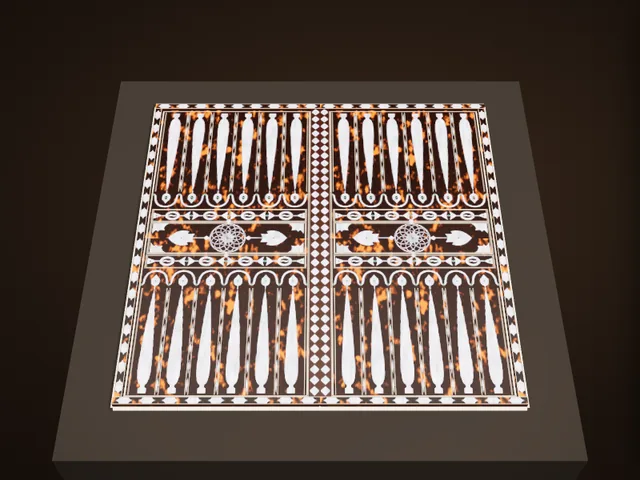
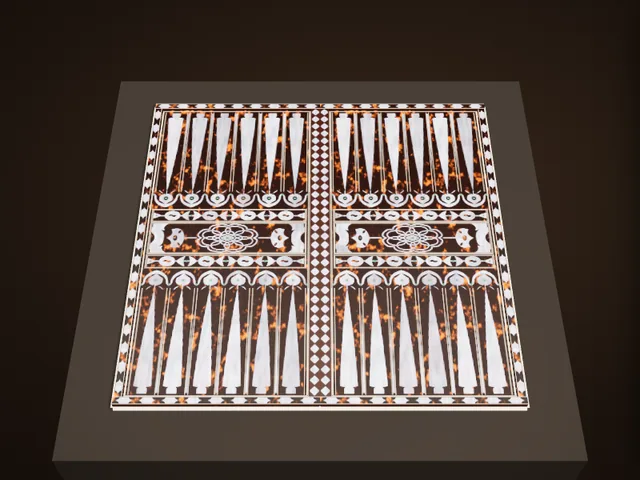
博物館：オスマン帝国の盤のバックギャモン面を V&A の写真に合わせて描き直し（第2弾）
Claude-Session: https://claude.ai/code/session_01EiWRAZTxRF5M5nk5vdR2jJ

Changed region(s): [[0.1562, 0.2188, 0.8438, 0.8438]]

diff --git a/atlas/museum/ex/ottoman.js b/atlas/museum/ex/ottoman.js
@@ -89,11 +89,11 @@
       const PS = 1024, pearlC = document.createElement('canvas'); pearlC.width = pearlC.height = PS;
       { const og = pearlC.getContext('2d'), img = og.createImageData(PS, PS), d = img.data;
         for (let j = 0; j < PS; j++) for (let i = 0; i < PS; i++) { const u = i / PS, v = j / PS, a = N(u * 22, v * 5, 3), b = N(u * 7 + 5, v * 16, 2), sh = N(u * 90, v * 14, 2), band = Math.sin((v * 9 + a * 2) * Math.PI) * .5 + .5;
-          const gr = 150 + sh * 70 + band * 22 + a * 18; const p = (j * PS + i) * 4; d[p] = gr + a * 16 - b * 14; d[p + 1] = gr + b * 12 - a * 6; d[p + 2] = gr + 10 + b * 18 + a * 6; d[p + 3] = 255; }
+          const gr = 132 + sh * 64 + band * 22 + a * 18; const p = (j * PS + i) * 4; d[p] = gr + a * 16 - b * 14; d[p + 1] = gr + b * 12 - a * 6; d[p + 2] = gr + 10 + b * 18 + a * 6; d[p + 3] = 255; }
         og.putImageData(img, 0, 0); }
       const shellC = document.createElement('canvas'); shellC.width = shellC.height = PS;
       { const og = shellC.getContext('2d'), img = og.createImageData(PS, PS), d = img.data;
-        for (let j = 0; j < PS; j++) for (let i = 0; i < PS; i++) { const u = i / PS, v = j / PS, m = N(u * 26 + 3, v * 14, 4) * .7 + N(u * 60, v * 34, 2) * .3, f = N(u * 90 + 7, v * 90, 2), t = Math.max(0, Math.min(1, (.42 - m) * 7));
+        for (let j = 0; j < PS; j++) for (let i = 0; i < PS; i++) { const u = i / PS, v = j / PS, m = N(u * 30 + 3, v * 18, 4) * .7 + N(u * 90, v * 50, 2) * .3, f = N(u * 90 + 7, v * 90, 2), t = Math.max(0, Math.min(1, (.42 - m) * 6));
           // dark, almost black-brown ground with amber-to-orange blotches (gold leaf glowing through the thin parts)
           const p = (j * PS + i) * 4; d[p] = 34 + t * 168 + (f - .5) * 14; d[p + 1] = 14 + t * 84 + (f - .5) * 8; d[p + 2] = 9 + t * 14; d[p + 3] = 255; }
         og.putImageData(img, 0, 0); }
@@ -103,7 +103,8 @@
         g.fillStyle = SP; g.fillRect(0, 0, w, h);
         const cm = v => v * S;
         // draw a path in pearl (and white on the mask), outlined with the fine dark joint of inlay
-        const P = (path, line = .03) => { g.fillStyle = PP; g.fill(path); m.fillStyle = '#fff'; m.fill(path); g.strokeStyle = 'rgba(40,22,14,.55)'; g.lineWidth = cm(line); g.stroke(path); };
+        let pv = 7; const pr = () => ((pv = (pv * 16807) % 2147483647) / 2147483647);
+        const P = (path, line = .03) => { g.fillStyle = PP; g.fill(path); const t = pr(); g.fillStyle = t < .5 ? `rgba(70,64,74,${.08 + t * .5})` : `rgba(235,238,245,${(t - .5) * .25})`; g.fill(path); m.fillStyle = '#fff'; m.fill(path); g.strokeStyle = 'rgba(40,22,14,.55)'; g.lineWidth = cm(line); g.stroke(path); };
         const GR = (x, y, rx, ry, rot = 0) => { g.beginPath(); g.ellipse(x, y, rx, ry, rot, 0, 6.29); g.fillStyle = '#3d7a64'; g.fill(); g.strokeStyle = 'rgba(20,40,30,.6)'; g.lineWidth = 1; g.stroke(); };   // green-stained bone
         const string = (x, y, ww, hh) => { [[.0, '#e6dccb'], [.07, '#2a1208'], [.14, '#e6dccb']].forEach(([o, c]) => { g.strokeStyle = c; g.lineWidth = cm(.05); g.strokeRect(x + cm(o), y + cm(o), ww - cm(2 * o), hh - cm(2 * o)); }); };
         [0, 1].forEach(L => {   // left leaf (hinge on its right) and right leaf (hinge on its left)
@@ -119,38 +120,38 @@
             if (!deep) {
               // a chain: roundels with an S of shell in the middle, between pointed lobed motifs, all on a thin stem
               const n = 4, step = bw / n;
-              const stem = new Path2D(); stem.rect(bx0, bcy - cm(.07), bw, cm(.14)); P(stem, .02);
+              const stem = new Path2D(); stem.rect(bx0, bcy - cm(.1), bw, cm(.2)); P(stem, .02);
               for (let i = 0; i < n; i++) { const rx = bx0 + step * (i + .5);
-                const ro = new Path2D(); ro.ellipse(rx, bcy, cm(1.1), cm(.85), 0, 0, 6.29); ro.ellipse(rx, bcy, cm(.72), cm(.5), 0, 0, 6.29, true); P(ro);
-                const ss = new Path2D(); ss.moveTo(rx - cm(.5), bcy + cm(.1)); ss.bezierCurveTo(rx - cm(.2), bcy - cm(.5), rx + cm(.2), bcy + cm(.5), rx + cm(.5), bcy - cm(.1)); g.strokeStyle = PP; g.lineWidth = cm(.16); g.stroke(ss); m.strokeStyle = '#fff'; m.lineWidth = cm(.16); m.stroke(ss);
+                const ro = new Path2D(); ro.ellipse(rx, bcy, cm(1.2), cm(.92), 0, 0, 6.29); P(ro);
+                const ss = new Path2D(); ss.moveTo(rx - cm(.5), bcy + cm(.1)); ss.bezierCurveTo(rx - cm(.2), bcy - cm(.5), rx + cm(.2), bcy + cm(.5), rx + cm(.5), bcy - cm(.1)); g.strokeStyle = SP; g.lineWidth = cm(.34); g.stroke(ss); m.strokeStyle = '#000'; m.lineWidth = cm(.34); m.stroke(ss);
                 if (i < n) { const lx = bx0 + step * i; [-1, 1].forEach(sd => { if ((i === 0 && sd < 0)) return; const ax = lx + (i === 0 ? 0 : 0), lob = new Path2D();
-                  lob.moveTo(ax + sd * cm(.15), bcy - cm(.85)); lob.quadraticCurveTo(ax + sd * cm(.75), bcy - cm(.45), ax + sd * cm(1.25), bcy); lob.quadraticCurveTo(ax + sd * cm(.75), bcy + cm(.45), ax + sd * cm(.15), bcy + cm(.85)); lob.quadraticCurveTo(ax + sd * cm(.5), bcy, ax + sd * cm(.15), bcy - cm(.85)); if (i) P(lob); }); if (i) GR(lx, bcy, cm(.14), cm(.2)); }
+                  lob.moveTo(ax + sd * cm(.25), bcy - cm(.95)); lob.quadraticCurveTo(ax + sd * cm(1.0), bcy - cm(.7), ax + sd * cm(1.55), bcy); lob.quadraticCurveTo(ax + sd * cm(1.0), bcy + cm(.7), ax + sd * cm(.25), bcy + cm(.95)); lob.quadraticCurveTo(ax + sd * cm(.75), bcy, ax + sd * cm(.25), bcy - cm(.95)); if (i) P(lob); }); if (i) GR(lx, bcy, cm(.14), cm(.2)); }
               }
               // the pointed finials at each end
               [bx0, bx1].forEach((ex, k) => { const sd = k ? -1 : 1, f = new Path2D(); f.moveTo(ex, bcy - cm(.55)); f.quadraticCurveTo(ex + sd * cm(.9), bcy - cm(.25), ex + sd * cm(1.25), bcy); f.quadraticCurveTo(ex + sd * cm(.9), bcy + cm(.25), ex, bcy + cm(.55)); f.closePath(); P(f); GR(ex + sd * cm(.45), bcy, cm(.13), cm(.2)); });
             } else {
               // the deep band: a round fretted medallion of interlace (four joined quarters), smaller lobed cartouches either side,
               // fretted hooks (spandrels) in the corners
-              const mx = bx0 + bw / 2, R = Math.min(bh * .48, bw * .2);
-              const med = new Path2D(); for (let q = 0; q < 8; q++) { const a = q / 8 * Math.PI * 2; med.moveTo(mx + Math.cos(a) * R * .02, bcy + Math.sin(a) * R * .02); }
-              g.save(); g.translate(mx, bcy);
-              const lw = cm(.085);
-              const knot = new Path2D();
-              for (let q = 0; q < 12; q++) { const a = q * Math.PI / 6; const cx2 = Math.cos(a) * R * .55, cy2 = Math.sin(a) * R * .55; knot.moveTo(cx2 + R * .4, cy2); knot.arc(cx2, cy2, R * .4, 0, Math.PI * 2); }
-              for (let q = 0; q < 6; q++) { const a = q * Math.PI / 3 + .26; const cx2 = Math.cos(a) * R * .3, cy2 = Math.sin(a) * R * .3; knot.moveTo(cx2 + R * .22, cy2); knot.arc(cx2, cy2, R * .22, 0, Math.PI * 2); }
-              knot.moveTo(R * .98, 0); knot.arc(0, 0, R * .98, 0, Math.PI * 2); knot.moveTo(R * .3, 0); knot.arc(0, 0, R * .3, 0, Math.PI * 2);
-              g.strokeStyle = PP; g.lineWidth = lw; g.stroke(knot); m.save(); m.translate(mx, bcy); m.strokeStyle = '#fff'; m.lineWidth = lw; m.stroke(knot); m.restore();
-              g.strokeStyle = 'rgba(40,22,14,.5)'; g.lineWidth = 1; g.stroke(knot);
-              // the vertical axis and four points of the medallion (the joins of its quarters)
-              [0, 1, 2, 3].forEach(q => { const a = q * Math.PI / 2, tip = new Path2D(); tip.moveTo(Math.cos(a) * R * .98, Math.sin(a) * R * .98); tip.lineTo(Math.cos(a + .12) * R * 1.18, Math.sin(a + .12) * R * 1.18); tip.lineTo(Math.cos(a) * R * 1.32, Math.sin(a) * R * 1.32); tip.lineTo(Math.cos(a - .12) * R * 1.18, Math.sin(a - .12) * R * 1.18); tip.closePath(); g.fillStyle = PP; g.fill(tip); m.save(); m.translate(mx, bcy); m.fillStyle = '#fff'; m.fill(tip); m.restore(); });
-              g.restore(); GR(mx, bcy, cm(.12), cm(.18));
-              // either side: a split palmette in fretted pearl, pointing at the medallion, on a short stem
-              [-1, 1].forEach(sd => { const px = mx + sd * bw * .3, pl = new Path2D(), PL = bw * .085, PHh = bh * .3;
-                pl.moveTo(px + sd * PL, bcy); pl.quadraticCurveTo(px + sd * PL * .3, bcy - PHh * 1.1, px - sd * PL * .55, bcy - PHh * .7); pl.quadraticCurveTo(px - sd * PL * .2, bcy - PHh * .3, px - sd * PL, bcy - PHh * .45);
-                pl.quadraticCurveTo(px - sd * PL * .7, bcy, px - sd * PL, bcy + PHh * .45); pl.quadraticCurveTo(px - sd * PL * .2, bcy + PHh * .3, px - sd * PL * .55, bcy + PHh * .7); pl.quadraticCurveTo(px + sd * PL * .3, bcy + PHh * 1.1, px + sd * PL, bcy); pl.closePath();
-                pl.moveTo(px + sd * PL * .5, bcy); pl.quadraticCurveTo(px, bcy - PHh * .45, px - sd * PL * .45, bcy - PHh * .1); pl.lineTo(px - sd * PL * .45, bcy + PHh * .1); pl.quadraticCurveTo(px, bcy + PHh * .45, px + sd * PL * .5, bcy); P(pl);
-                const stm = new Path2D(); stm.rect(Math.min(px + sd * PL, mx + sd * R * 1.3), bcy - cm(.06), Math.abs(mx + sd * R * 1.3 - (px + sd * PL)), cm(.12)); P(stm, .01);
-                GR(px, bcy, cm(.11), cm(.17)); });
+              const mx = bx0 + bw / 2, MW = bw * .2, MH = bh * .47, lw = cm(.15);
+              const strokeP = (p, wdt) => { g.strokeStyle = PP; g.lineWidth = wdt; g.stroke(p); m.strokeStyle = '#fff'; m.lineWidth = wdt; m.stroke(p); g.strokeStyle = 'rgba(40,22,14,.45)'; g.lineWidth = 1; g.stroke(p); };
+              // a lobed round medallion (eight ogee lobes) filled with a dense interlace of rings, a quatrefoil at the heart
+              const lob = new Path2D(), LB = 8;
+              for (let q = 0; q <= LB * 8; q++) { const a = q / (LB * 8) * Math.PI * 2, f = Math.abs(Math.sin(a * LB / 2)), rr = 1 - .14 * Math.pow(1 - f, 2); const x = mx + Math.cos(a) * MW * rr, y = bcy + Math.sin(a) * MH * rr; q ? lob.lineTo(x, y) : lob.moveTo(x, y); } lob.closePath();
+              strokeP(lob, lw * 1.2);
+              const ring = new Path2D();
+              for (let q = 0; q < 8; q++) { const a = q / 8 * Math.PI * 2 + Math.PI / 8, x = mx + Math.cos(a) * MW * .56, y = bcy + Math.sin(a) * MH * .56; ring.moveTo(x + MW * .3, y); ring.ellipse(x, y, MW * .3, MH * .3, 0, 0, Math.PI * 2); }
+              for (let q = 0; q < 4; q++) { const a = q / 4 * Math.PI * 2, x = mx + Math.cos(a) * MW * .28, y = bcy + Math.sin(a) * MH * .28; ring.moveTo(x + MW * .2, y); ring.ellipse(x, y, MW * .2, MH * .2, 0, 0, Math.PI * 2); }
+              strokeP(ring, lw);
+              const qf = new Path2D(); for (let q = 0; q < 4; q++) { const a = q * Math.PI / 2; qf.moveTo(mx, bcy); qf.quadraticCurveTo(mx + Math.cos(a - .5) * MW * .3, bcy + Math.sin(a - .5) * MH * .3, mx + Math.cos(a) * MW * .2, bcy + Math.sin(a) * MH * .2); qf.quadraticCurveTo(mx + Math.cos(a + .5) * MW * .3, bcy + Math.sin(a + .5) * MH * .3, mx, bcy); } P(qf);
+              GR(mx, bcy, cm(.13), cm(.19));
+              const MWt = MW;
+              // long finials from the points of the mandorla, ending in a lobed palmette; quarter medallions at the band's ends
+              [-1, 1].forEach(sd => { const tx = mx + sd * MWt, fx = mx + sd * bw * .34, fin = new Path2D();
+                fin.moveTo(tx, bcy - cm(.12)); fin.lineTo(fx - sd * cm(1.4), bcy - cm(.12)); fin.quadraticCurveTo(fx - sd * cm(1.0), bcy - bh * .42, fx + sd * cm(.7), bcy - bh * .28); fin.quadraticCurveTo(fx + sd * cm(.1), bcy - bh * .1, fx + sd * cm(1.4), bcy);
+                fin.quadraticCurveTo(fx + sd * cm(.1), bcy + bh * .1, fx + sd * cm(.7), bcy + bh * .28); fin.quadraticCurveTo(fx - sd * cm(1.0), bcy + bh * .42, fx - sd * cm(1.4), bcy + cm(.12)); fin.lineTo(tx, bcy + cm(.12)); fin.closePath();
+                fin.moveTo(fx + sd * cm(.35), bcy); fin.ellipse(fx, bcy, cm(.35), bh * .09, 0, 0, 6.29, sd > 0);
+                [-1, 1].forEach(vs => { const ex2 = fx - sd * cm(.6), ey = bcy + vs * bh * .2; fin.moveTo(ex2 + cm(.2), ey); fin.ellipse(ex2, ey, cm(.2), bh * .06, vs * sd * .6, 0, 6.29, sd > 0); }); P(fin); GR(fx, bcy, cm(.1), cm(.15));
+                const ex = sd < 0 ? bx0 : bx1, q = new Path2D(); q.moveTo(ex, bcy - bh * .36); q.quadraticCurveTo(ex - sd * cm(2.2), bcy - bh * .3, ex - sd * cm(2.0), bcy); q.quadraticCurveTo(ex - sd * cm(2.2), bcy + bh * .3, ex, bcy + bh * .36); q.lineTo(ex, bcy + bh * .2); q.quadraticCurveTo(ex - sd * cm(1.3), bcy, ex, bcy - bh * .2); q.closePath(); P(q); });
               // spandrels: a hooked cloud band in each corner
               [[bx0, by, 1, 1], [bx1, by, -1, 1], [bx0, by + bh, 1, -1], [bx1, by + bh, -1, -1]].forEach(([sx, sy, dx, dy]) => { const sp = new Path2D();
                 sp.moveTo(sx, sy + dy * cm(.15)); sp.lineTo(sx + dx * cm(2.6), sy + dy * cm(.15)); sp.quadraticCurveTo(sx + dx * cm(1.6), sy + dy * cm(.6), sx + dx * cm(2.0), sy + dy * cm(1.5)); sp.quadraticCurveTo(sx + dx * cm(1.2), sy + dy * cm(1.1), sx + dx * cm(1.0), sy + dy * cm(1.7)); sp.quadraticCurveTo(sx + dx * cm(.6), sy + dy * cm(1.0), sx + dx * cm(.15), sy + dy * cm(2.1)); sp.lineTo(sx + dx * cm(.15), sy + dy * cm(.15)); sp.closePath();
@@ -164,30 +165,31 @@
             // separators: narrow bands of the frame's marquetry between the columns (stringing and slivers of pearl)
             for (let k = 0; k <= nP; k++) { const sx = ix0 + k * colW, sx0 = sx - sep / 2;
               g.fillStyle = '#e6dccb'; g.fillRect(sx0, Math.min(edge, tipEnd), cm(.05), Math.abs(tipEnd - edge)); g.fillRect(sx0 + sep - cm(.05), Math.min(edge, tipEnd), cm(.05), Math.abs(tipEnd - edge));
-              if (k > 0 && k < nP) for (let q = 0; q < 6; q++) { const ya = edge + dir * (q * Math.abs(tipEnd - edge) / 6 + cm(.25)), yb = edge + dir * ((q + 1) * Math.abs(tipEnd - edge) / 6 - cm(.25)); const sl = new Path2D(); sl.moveTo(sx, ya); sl.lineTo(sx + cm(.12), (ya + yb) / 2); sl.lineTo(sx, yb); sl.lineTo(sx - cm(.12), (ya + yb) / 2); sl.closePath(); P(sl, .01); } }
+              if (k > 0 && k < nP) { const nd = new Path2D(), nl = Math.abs(tipEnd - edge) * .78, e1 = edge + dir * cm(.3); nd.moveTo(sx - cm(.16), e1); nd.lineTo(sx + cm(.16), e1); nd.lineTo(sx, e1 + dir * nl); nd.closePath(); P(nd, .015); }
+            }
             for (let k = 0; k < nP; k++) {
               const cx = ix0 + (k + .5) * colW, half = colW * .24;
-              // the cypress: a short stepped trunk at the edge, the crown widest near it and tapering to a point at the niche
-              const tr = new Path2D(), Lp = Math.abs(tipEnd - edge) - cm(.4), e0 = edge + dir * cm(.25);
-              tr.moveTo(cx - half * .55, e0); tr.lineTo(cx + half * .55, e0); tr.lineTo(cx + half * .55, e0 + dir * cm(.7)); tr.lineTo(cx + half * .3, e0 + dir * cm(.9));
-              tr.lineTo(cx + half * .3, e0 + dir * cm(1.3)); tr.quadraticCurveTo(cx + half * 1.05, e0 + dir * cm(1.6), cx + half * .9, e0 + dir * Lp * .3);
-              tr.quadraticCurveTo(cx + half * .55, e0 + dir * Lp * .75, cx, e0 + dir * Lp); tr.quadraticCurveTo(cx - half * .55, e0 + dir * Lp * .75, cx - half * .9, e0 + dir * Lp * .3);
-              tr.quadraticCurveTo(cx - half * 1.05, e0 + dir * cm(1.6), cx - half * .3, e0 + dir * cm(1.3)); tr.lineTo(cx - half * .3, e0 + dir * cm(.9)); tr.lineTo(cx - half * .55, e0 + dir * cm(.7)); tr.closePath();
+              // the point: a short cap at the edge, then a long tapering triangle (widest at the edge) running to the niche
+              const tr = new Path2D(), Lp = Math.abs(tipEnd - edge) - cm(.3), e0 = edge + dir * cm(.2), bw2 = colW * .3;
+              tr.moveTo(cx - bw2 * .55, e0); tr.lineTo(cx + bw2 * .55, e0); tr.lineTo(cx + bw2 * .55, e0 + dir * cm(.75)); tr.lineTo(cx + bw2 * .35, e0 + dir * cm(.95));
+              tr.lineTo(cx + bw2, e0 + dir * cm(1.15)); tr.quadraticCurveTo(cx + bw2 * .7, e0 + dir * Lp * .55, cx, e0 + dir * Lp); tr.quadraticCurveTo(cx - bw2 * .7, e0 + dir * Lp * .55, cx - bw2, e0 + dir * cm(1.15));
+              tr.lineTo(cx - bw2 * .35, e0 + dir * cm(.95)); tr.lineTo(cx - bw2 * .55, e0 + dir * cm(.75)); tr.closePath();
               P(tr);
               // the joins of the pieces the cypress is made of
               g.strokeStyle = 'rgba(60,40,30,.45)'; g.lineWidth = 1; [.18, .42, .66].forEach(f => { const yy = e0 + dir * Lp * f; g.beginPath(); g.moveTo(cx - half, yy + dir * cm(.2)); g.lineTo(cx + half, yy - dir * cm(.1)); g.stroke(); });
               // the niche over the tip: a U of two bands with outward hooks, its lowest point near the bands; the pendant inside it
               const a0 = ix0 + k * colW, a1 = a0 + colW, top0 = tipEnd + dir * cm(.1), bot0 = inner - dir * cm(.25);
-              const ni = new Path2D(), tw = cm(.26);
+              const ni = new Path2D(), tw = cm(.42);
               ni.moveTo(a0 - cm(.25), top0); ni.quadraticCurveTo(a0 + cm(.15), top0 + dir * cm(.35), a0 + cm(.2), top0 + dir * cm(.9));
-              ni.quadraticCurveTo(a0 + cm(.3), bot0, cx, bot0); ni.quadraticCurveTo(a1 - cm(.3), bot0, a1 - cm(.2), top0 + dir * cm(.9)); ni.quadraticCurveTo(a1 - cm(.15), top0 + dir * cm(.35), a1 + cm(.25), top0);
+              ni.quadraticCurveTo(a0 + cm(.25), bot0 - dir * cm(.5), cx, bot0); ni.quadraticCurveTo(a1 - cm(.25), bot0 - dir * cm(.5), a1 - cm(.2), top0 + dir * cm(.9)); ni.quadraticCurveTo(a1 - cm(.15), top0 + dir * cm(.35), a1 + cm(.25), top0);
               ni.lineTo(a1 + cm(.05), top0 + dir * cm(.25)); ni.quadraticCurveTo(a1 - cm(.45), top0 + dir * cm(.55), a1 - cm(.48), top0 + dir * cm(1.0));
-              ni.quadraticCurveTo(a1 - cm(.6), bot0 - dir * tw, cx, bot0 - dir * tw); ni.quadraticCurveTo(a0 + cm(.6), bot0 - dir * tw, a0 + cm(.48), top0 + dir * cm(1.0)); ni.quadraticCurveTo(a0 + cm(.45), top0 + dir * cm(.55), a0 - cm(.05), top0 + dir * cm(.25)); ni.closePath(); P(ni);
+              ni.quadraticCurveTo(a1 - cm(.55), bot0 - dir * (tw + cm(.5)), cx, bot0 - dir * tw * 1.3); ni.quadraticCurveTo(a0 + cm(.55), bot0 - dir * (tw + cm(.5)), a0 + cm(.48), top0 + dir * cm(1.0)); ni.quadraticCurveTo(a0 + cm(.45), top0 + dir * cm(.55), a0 - cm(.05), top0 + dir * cm(.25)); ni.closePath(); P(ni);
               // the pendant: a cusped drop on a stem from the cypress tip, pierced in the middle
-              const st0 = tipEnd - dir * cm(.2), pH = Math.abs(bot0 - st0) * .78, pd = new Path2D(), pw2 = half * .75;
+              const st0 = tipEnd - dir * cm(.2), pH = Math.abs(bot0 - st0) * .85, pd = new Path2D(), pw2 = half * 1.25;
               pd.moveTo(cx - cm(.06), st0); pd.lineTo(cx + cm(.06), st0); pd.lineTo(cx + cm(.06), st0 + dir * pH * .22);
               pd.quadraticCurveTo(cx + pw2 * 1.1, st0 + dir * pH * .3, cx + pw2 * .8, st0 + dir * pH * .7); pd.quadraticCurveTo(cx + pw2 * .35, st0 + dir * pH * .82, cx, st0 + dir * pH);
               pd.quadraticCurveTo(cx - pw2 * .35, st0 + dir * pH * .82, cx - pw2 * .8, st0 + dir * pH * .7); pd.quadraticCurveTo(cx - pw2 * 1.1, st0 + dir * pH * .3, cx - cm(.06), st0 + dir * pH * .22); pd.closePath();
+              [-1, 1].forEach(hs => { pd.moveTo(cx + hs * cm(.06), st0 + dir * pH * .24); pd.quadraticCurveTo(cx + hs * pw2 * .9, st0 + dir * pH * .18, cx + hs * pw2 * 1.05, st0 - dir * pH * .05); pd.quadraticCurveTo(cx + hs * pw2 * .7, st0 + dir * pH * .1, cx + hs * cm(.06), st0 + dir * pH * .32); });
               pd.moveTo(cx + pw2 * .3, st0 + dir * pH * .55); pd.ellipse(cx, st0 + dir * pH * .55, pw2 * .3, pH * .14, 0, 0, 6.29, true); P(pd);
               GR(cx, st0 + dir * pH * .55, pw2 * .16, pH * .07); [a0, a1].forEach(ax => GR(ax, top0 + dir * cm(.55), cm(.12), cm(.2)));
             }

diff --git a/atlas/museum.js b/atlas/museum.js
@@ -32,7 +32,7 @@
   const ROOMS = [
     { id: 'map', ready: () => !!window.AtlasMap, render: (el, c) => AtlasMap.render(el, c) },
     { id: 'tree', src: ['museum/tree.js?v=2'], ready: () => !!window.AtlasTree, render: (el, c) => AtlasTree.render(el, c) },
-    { id: 'gallery', src: ['museum/gallery.js?v=10'], ready: () => !!window.AtlasGallery, render: (el, c) => AtlasGallery.render(el, c) },
+    { id: 'gallery', src: ['museum/gallery.js?v=11'], ready: () => !!window.AtlasGallery, render: (el, c) => AtlasGallery.render(el, c) },
   ];
   const KEY = 'atlas-museum-room';
   const esc = s => String(s == null ? '' : s).replace(/[&<>"]/g, c => ({ '&': '&amp;', '<': '&lt;', '>': '&gt;', '"': '&quot;' }[c]));

diff --git a/atlas/index.html b/atlas/index.html
@@ -2559,7 +2559,7 @@ window.AtlasRgdTimer = function (btn, ms, alive) {
 <link rel="stylesheet" href="worldmap.css?v=19">
 <link rel="stylesheet" href="museum.css?v=4">
 <script src="worldmap.js?v=40"></script>
-<script src="museum.js?v=11"></script>
+<script src="museum.js?v=12"></script>
 <script src="npc/npc.js?v=46"></script>
 <script src="avtalk.js?v=4"></script>
 <script>/* Page states as classes on <html> (2026-11-21) — html.cov-on: the 3D view / Historia / a sheet / a level sheet is open;

diff --git a/atlas/museum/gallery.js b/atlas/museum/gallery.js
@@ -10,7 +10,7 @@
    (a turn, a zoom, the slow turntable) and never while the window is in the background. */
 (function () {
   'use strict';
-  const V = 10;
+  const V = 11;
   /* ---------- the pieces: id, the game it belongs to, its scale (cm per model unit), the camera's start, the details ----------
      lock: { game, ach } → open after that many achievements of the game. src: the files the piece needs (besides ex/<id>.js) */
   const EX = [
